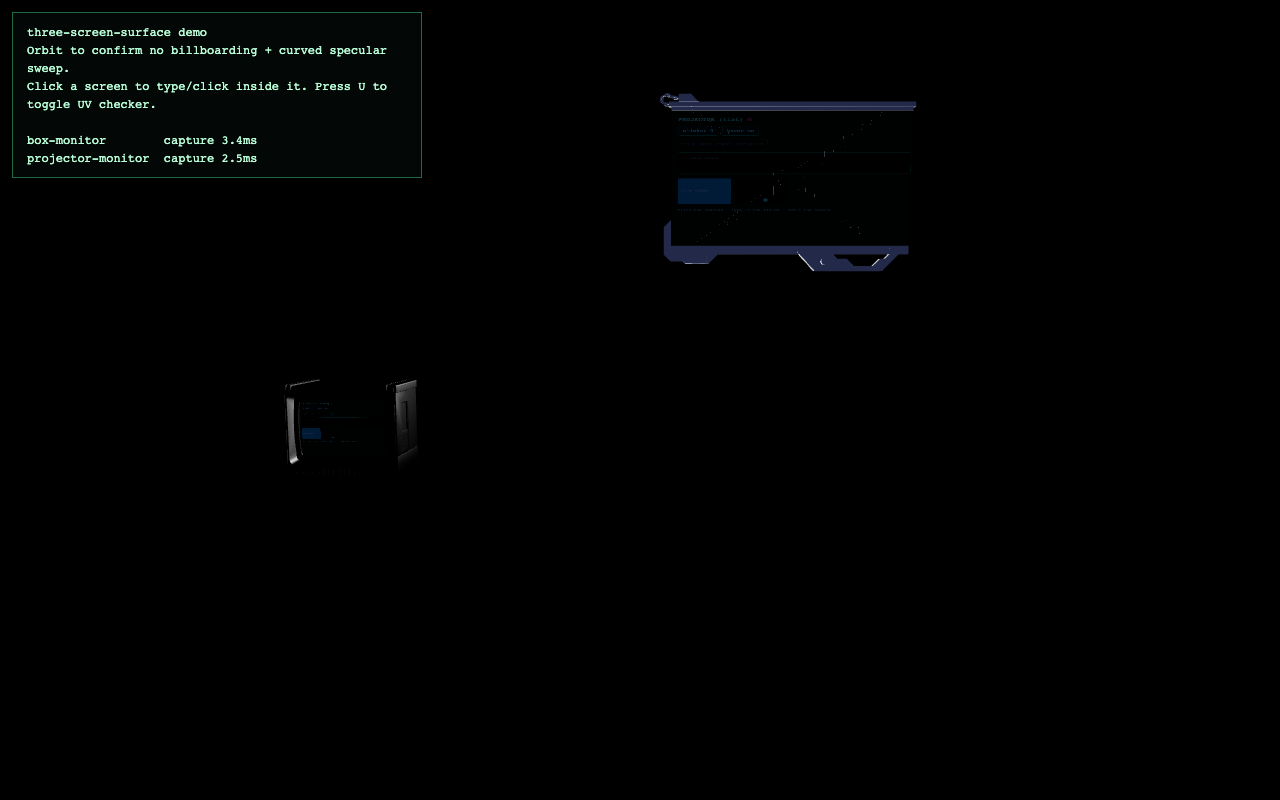
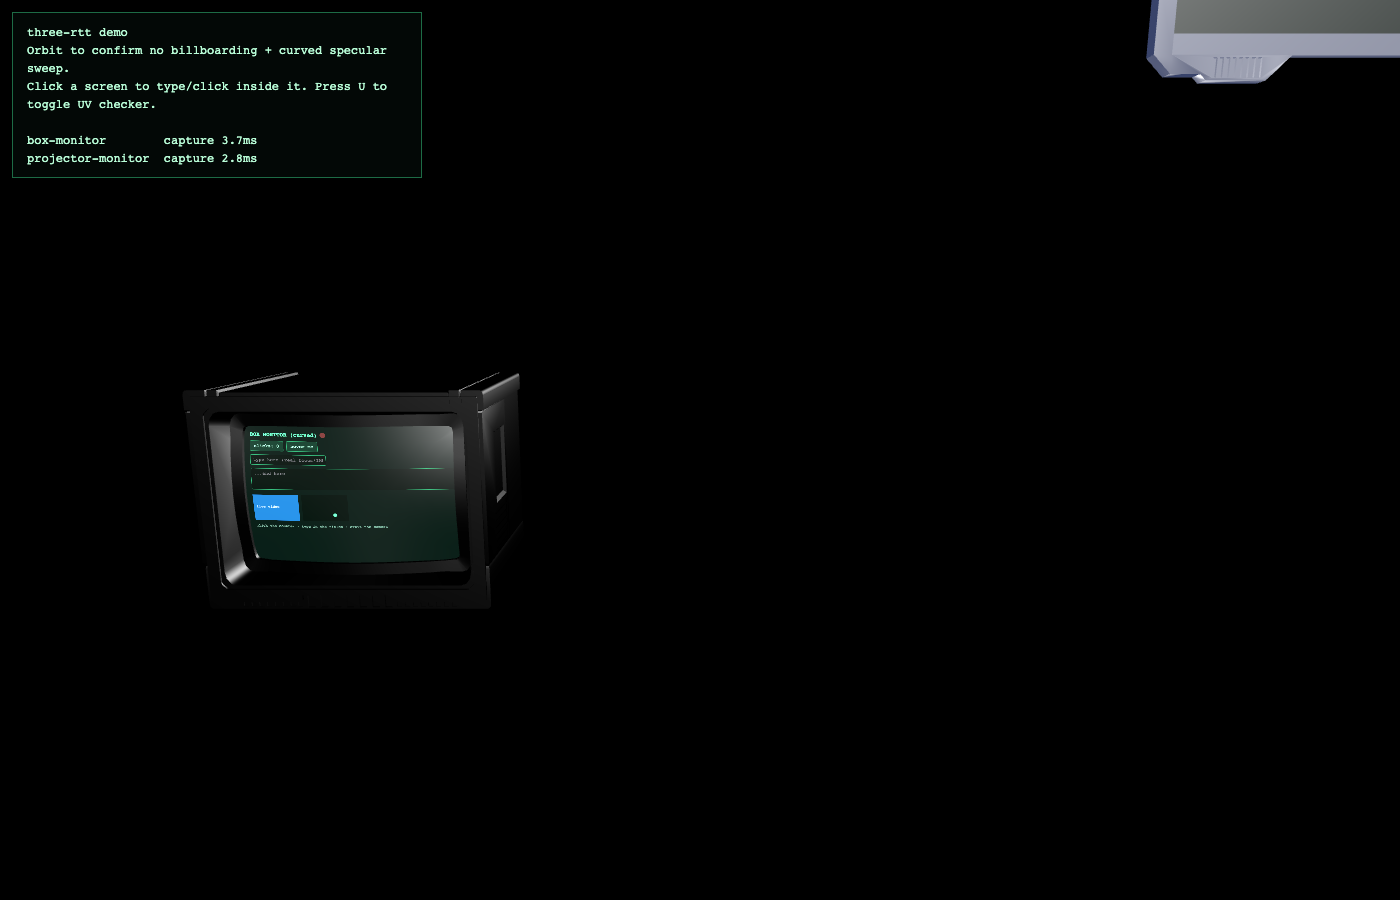
Fix postinstall crashing every downstream consumer; brighten demo + better hero shot
postinstall referenced scripts/link-examples.mjs, which isn't part of the
published "files" allowlist — every real npm install of this package (not just
this repo's own) ran and crashed on that missing file. Moved it to a plain
link-examples script wired into prebuild/predev/pretest instead, which only
fires for this repo's own internal script runs, never for a consumer.

Also brightens the demo scene (a key light, self-lit screens via
applyAsEmissive) and swaps the README hero screenshot for one that actually
shows the live content legibly.

diff --git a/examples/vite-demo/src/main.ts b/examples/vite-demo/src/main.ts
@@ -2,6 +2,7 @@ import {
   AmbientLight,
   CanvasTexture,
   Clock,
+  DirectionalLight,
   Group,
   Mesh,
   MeshStandardMaterial,
@@ -38,7 +39,13 @@ const controls = new OrbitControls(camera, renderer.domElement);
 controls.target.set(0.7, 0.3, 0);
 controls.enableDamping = true;
 
-scene.add(new AmbientLight(0x88a0ff, 0.35));
+scene.add(new AmbientLight(0x8fa8ff, 0.75));
+
+// Steady key light so the screens themselves (not just the chassis) read clearly —
+// the sweep light alone leaves the monitors legible only while it's nearby.
+const keyLight = new DirectionalLight(0xffffff, 1.4);
+keyLight.position.set(0.5, 2, 2);
+scene.add(keyLight);
 
 // Orbiting point light: with a true render-to-texture screen, real specular highlights
 // should visibly sweep across the curved Box_Monitor glass as this moves — something a
@@ -120,13 +127,37 @@ async function main(): Promise<void> {
       root: config.root,
       resolution: SCREEN_RESOLUTION,
       compositor: { fps: 30 },
-      texture: { generateMipmaps: false },
+      // Self-lit, so the live content reads clearly regardless of scene lighting —
+      // a screen should look like it's emitting light, not reflecting it. The
+      // materialFactory neutralizes the FBX-authored base color/emissive (whatever
+      // baked look the model shipped with) so the live map isn't tinted or dimmed.
+      texture: {
+        generateMipmaps: false,
+        applyAsEmissive: true,
+        materialFactory: (original) => {
+          const material = (original as MeshStandardMaterial).clone();
+          material.color.set("#ffffff");
+          material.emissive.set("#ffffff");
+          material.emissiveIntensity = 1;
+          return material;
+        },
+      },
       input: { camera, domElement: renderer.domElement },
     });
     monitors.push({ id: config.id, surface, liveMap: surface.screenTexture.texture, checkerApplied: false });
   }
 
   if (import.meta.env.DEV) {
+    // Dev-only harness hook: precise camera control for scripted screenshots.
+    (window as unknown as Record<string, unknown>).__frameCamera = (
+      pos: [number, number, number],
+      target: [number, number, number],
+    ) => {
+      camera.position.set(...pos);
+      controls.target.set(...target);
+      controls.update();
+    };
+
     // Dev-only harness hook: exercises the exact InputBridge.handleHit path a real
     // raycast hit would use, without depending on precise on-screen pixel picking
     // (useful for automated verification of the input-forwarding pipeline itself).

diff --git a/README.md b/README.md
@@ -12,7 +12,7 @@ itself to face the camera.
 [![license](https://img.shields.io/npm/l/three-rtt.svg)](./LICENSE)
 
 <p align="center">
-  <img src="./docs/demo.png" alt="three-rtt demo: two independent live, interactive DOM apps textured onto separate monitor meshes (one curved, one flat) in the same Three.js scene" width="720" />
+  <img src="./docs/demo.png" alt="three-rtt demo: a live, interactive DOM app rendered directly onto a curved CRT monitor's authored screen mesh, with a second monitor visible in the same scene" width="720" />
 </p>
 
 ## Why this exists
